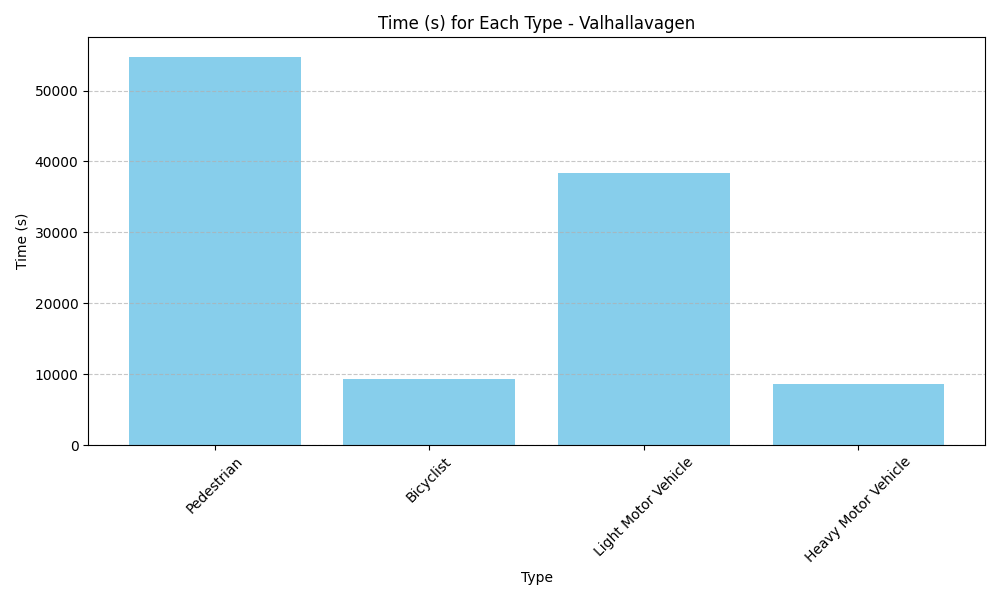
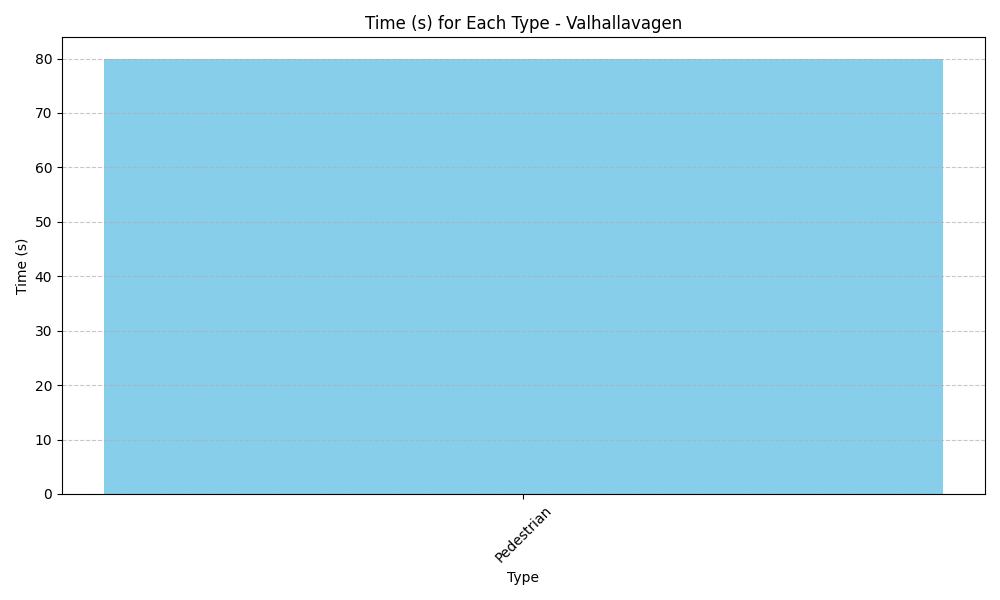
base model working

diff --git a/code/classes/Experiments/experiment_manager.py b/code/classes/Experiments/experiment_manager.py
@@ -111,11 +111,11 @@ class ExperimentManager:
             
         for split_type in split_types:
             for data_type in data_types:
-                file = Path(f"./data/Dataset/{self.location.location_name}/{split_type}/{data_type}.pt")
+                file = Path(f"./data/Datasets/{self.location.location_name}/{split_type}/{data_type}.pt")
                 
-                if file.exists():  # If any required file is missing, return False.
+                if not file.exists():  # If any required file is missing, return False.
                     print(file)
-                    return True
+                    return False
         
         # Cleanup and memory management
         del split_types, data_types
@@ -269,16 +269,16 @@ class ExperimentManager:
             - Deletes tensor objects and triggers garbage collection to free memory.
         """
         print(f"Saving {data_type} for Location: {self.location.location_name}")
-        src = np.array([sample['src'] for sample in data])
-        tgt = np.array([sample['tgt'] for sample in data])
-        dist = np.array([sample['dist'] for sample in data])
-        dist_type = np.array([sample['dist_type'] for sample in data])
-        
+        src = np.array([sample['src'] for sample in data], dtype=np.float64)
+        tgt = np.array([sample['tgt'] for sample in data], dtype=np.float64)
+        dist = np.array([sample['dist'] for sample in data], dtype=np.float64)
+        dist_type = np.array([sample['dist_type'] for sample in data], dtype=np.float64)
+
         # Extracting data components and converting them into tensors
-        src = torch.tensor(src)
-        tgt = torch.tensor(tgt)
-        dist = torch.tensor(dist)
-        dist_type = torch.tensor(dist_type)
+        src = torch.tensor(src, dtype=torch.float64).to(torch.float32)
+        tgt = torch.tensor(tgt, dtype=torch.float64).to(torch.float32)
+        dist = torch.tensor(dist, dtype=torch.float64).to(torch.float32)
+        dist_type = torch.tensor(dist_type, dtype=torch.float64).to(torch.float32)
         
         # Saving tensors to disk
         torch.save(src, f"./data/Datasets/{self.location.location_name}/{data_type}/src.pt")
@@ -305,13 +305,13 @@ class ExperimentManager:
         print(f"Loading {data_type} for model {model_name} at Location: {self.location.location_name}")
         
         # Loading mandatory tensors
-        src = torch.load(f"./data/Dataset/{self.location.location_name}/{data_type}/src.pt", weights_only=True)
-        tgt = torch.load(f"./data/Dataset/{self.location.location_name}/{data_type}/tgt.pt", weights_only=True)
+        src = torch.load(f"./data/Datasets/{self.location.location_name}/{data_type}/src.pt", weights_only=True)
+        tgt = torch.load(f"./data/Datasets/{self.location.location_name}/{data_type}/tgt.pt", weights_only=True)
         
         if spatial:
             # Loading additional spatial data if requested
-            dist = torch.load(f"./data/Dataset/{self.location.location_name}/{data_type}/dist.pt", weights_only=True)
-            d_type = torch.load(f"./data/Dataset/{self.location.location_name}/{data_type}/dist_type.pt", weights_only=True)
+            dist = torch.load(f"./data/Datasets/{self.location.location_name}/{data_type}/dist.pt", weights_only=True)
+            d_type = torch.load(f"./data/Datasets/{self.location.location_name}/{data_type}/dist_type.pt", weights_only=True)
             return {'src': src, 'tgt': tgt, 'distance': dist, 'type': d_type}
         else:
             return {'src': src, 'tgt': tgt}

diff --git a/code/classes/Experiments/experiment.py b/code/classes/Experiments/experiment.py
@@ -8,6 +8,7 @@ from torch.optim import Adam
 from torch.utils.data import DataLoader
 from tqdm import tqdm
 from torch.utils.tensorboard import SummaryWriter
+from torch.cuda.amp import autocast
 
 from classes.scaler import Scaler
 
@@ -252,7 +253,8 @@ class Experiment:
                 tgt_mask = self.create_mask(targets.shape[0], targets.shape[1])
                 inputs = self.scaler.scale(inputs[:, :, :3], "src")
                 targets = self.scaler.scale(targets[:, :, :2], "tgt")
-                outputs = self.model(inputs[:, :, :2], targets, src_mask=src_mask.cuda(), tgt_mask=tgt_mask.cuda())
+                with autocast(dtype=torch.float16):
+                    outputs = self.model(inputs[:, :, :2], targets, src_mask=src_mask.cuda(), tgt_mask=tgt_mask.cuda())
             
             elif self.model_type == 'Transformer':
                 inputs, targets = batch['src'].cuda(), batch['tgt'].cuda()
@@ -261,7 +263,8 @@ class Experiment:
                 scaled_inputs = self.scaler.scale(inputs[:, :, :3], "src")
                 targets = self.scaler.scale(targets[:, :, :2], "tgt")
                 inputs = torch.cat((scaled_inputs, inputs[:, :, 4:].cuda()), dim=2)
-                outputs = self.model(inputs, targets, src_mask=src_mask.cuda(), tgt_mask=tgt_mask.cuda())
+                with autocast(dtype=torch.float16):
+                    outputs = self.model(inputs, targets, src_mask=src_mask.cuda(), tgt_mask=tgt_mask.cuda())
             
             elif self.model_type in ['STAR', 'SAESTAR']:
                 inputs, targets, distances, distance_types = batch['src'].cuda(), batch['tgt'].cuda(), batch['distance'].cuda(), batch['type'].cuda()
@@ -270,7 +273,8 @@ class Experiment:
                 targets = self.scaler.scale(targets[:, :, :2], "tgt")
                 distances = self.scaler.scale(distances, "dist")
                 inputs = torch.cat((scaled_inputs, inputs[:, :, 4:].cuda()), dim=2)
-                outputs = self.model(inputs.type(torch.float32), distances.type(torch.float32), distance_types, src_mask=src_mask.cuda())
+                with autocast(dtype=torch.float16):
+                    outputs = self.model(inputs.type(torch.float32), distances.type(torch.float32), distance_types, src_mask=src_mask.cuda())
 
             # Compute loss, backpropagate, and optimize
             loss = self.criterion(outputs.type(torch.float32), targets.type(torch.float32))

diff --git a/code/classes/scaler.py b/code/classes/scaler.py
@@ -47,7 +47,7 @@ class Scaler:
         # Flatten the data to 2D for scaling
         flat_data = np_data.reshape(shape[0] * shape[1], shape[2])
         # Clip the data to avoid extreme values that could distort scaling
-        clipped_data = np.clip(np.array(flat_data), -1e6, 1e6)
+        clipped_data = np.clip(np.array(flat_data, dtype=np.float32), -1e6, 1e6)
         # Fit and return the scaler on the clipped data
         return scaler.fit(clipped_data)
 
@@ -75,9 +75,9 @@ class Scaler:
         # Flatten the data into 2D for scaling
         data_flat = data.view(data.shape[0] * data.shape[1], data.shape[2])
         # Clip the data to avoid extreme values that could distort scaling
-        data_clipped = np.clip(np.array(data_flat.cpu()), -1e6, 1e6)
+        data_clipped = np.clip(np.array(data_flat.cpu(), dtype=np.float32), -1e6, 1e6)
         # Transform the data using the fitted scaler
-        data_scaled = torch.tensor(scaler.transform(data_clipped)).cuda()
+        data_scaled = torch.tensor(scaler.transform(data_clipped), dtype=torch.float32).cuda()
         # Reshape the data back to its original shape
         reshaped_data = data_scaled.reshape(shape)
         return reshaped_data

diff --git a/code/main.py b/code/main.py
@@ -128,6 +128,10 @@ roi_torpagatan = [
     {'roi_x_min':1020, 'roi_x_max':1090, 'roi_y_min':400, 'roi_y_max':490, 'object_x':1047, 'object_y':449, 'type':'Tree'}
     ]
 
+#import os
+#print(f"cwd = {os.getcwd()}")
+#os.chdir("/home/sali20jt/viscando/TrajectoryPrediction_DL_2025/code")
+#print(f"cwd = {os.getcwd()}")
 
 if __name__=="__main__": 
     # Check if GPU is available 
@@ -159,8 +163,8 @@ if __name__=="__main__":
         location_name="Valhallavagen",
         env_vectors=Valhallavagen_env_vectors,
         env_polygons=valhallavagen_ENV,
-        static_objects=torpagatan_static_objs,
-        roi=roi_torpagatan
+        static_objects=valhallavagen_static_objs,
+        roi=roi_valhallavagen
         )
     viz = Visualization(valhallavagen)
     experiment_manager = ExperimentManager(

diff --git a/code/classes/location.py b/code/classes/location.py
@@ -119,7 +119,7 @@ class Location:
         df = pd.concat([df1, df2, df3, df4], ignore_index=True)
         del df1, df2, df3, df4
         gc.collect()
-        return df
+        return df.head(1000)
 
     def create_dataset(self):
         """
